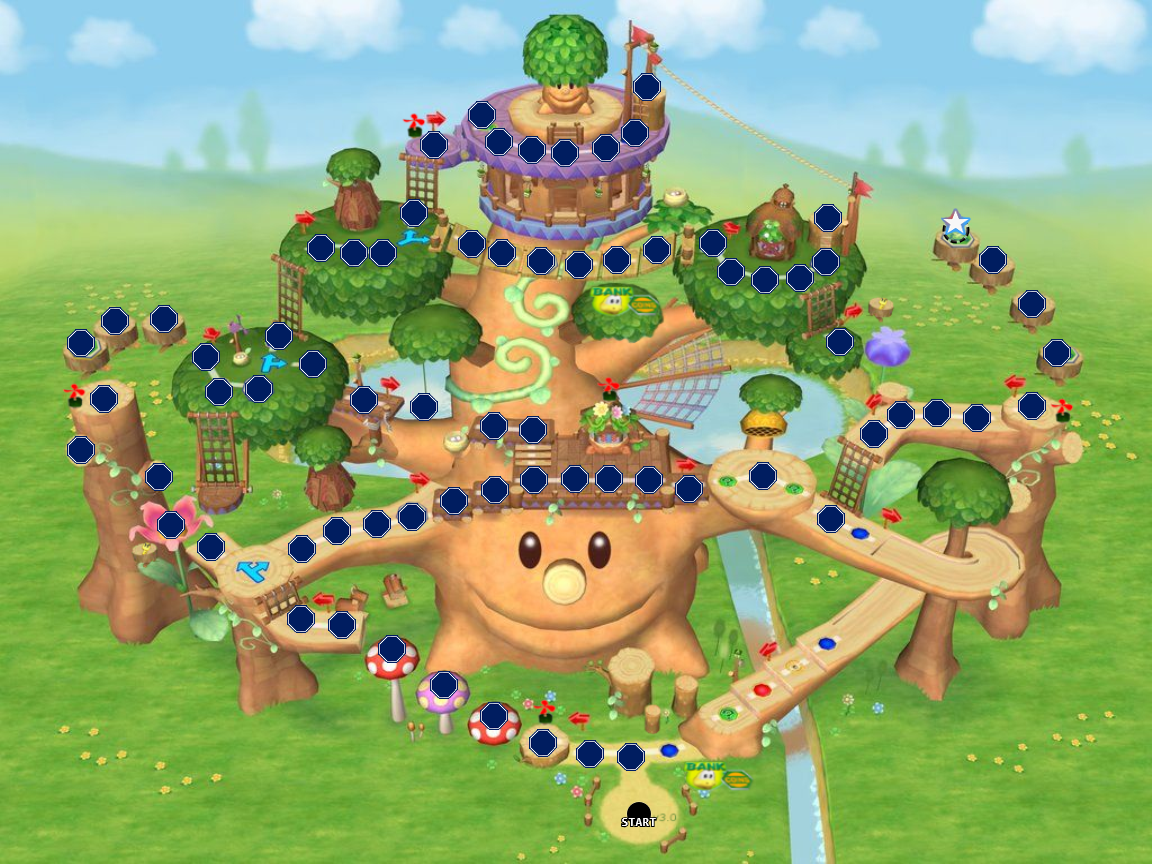
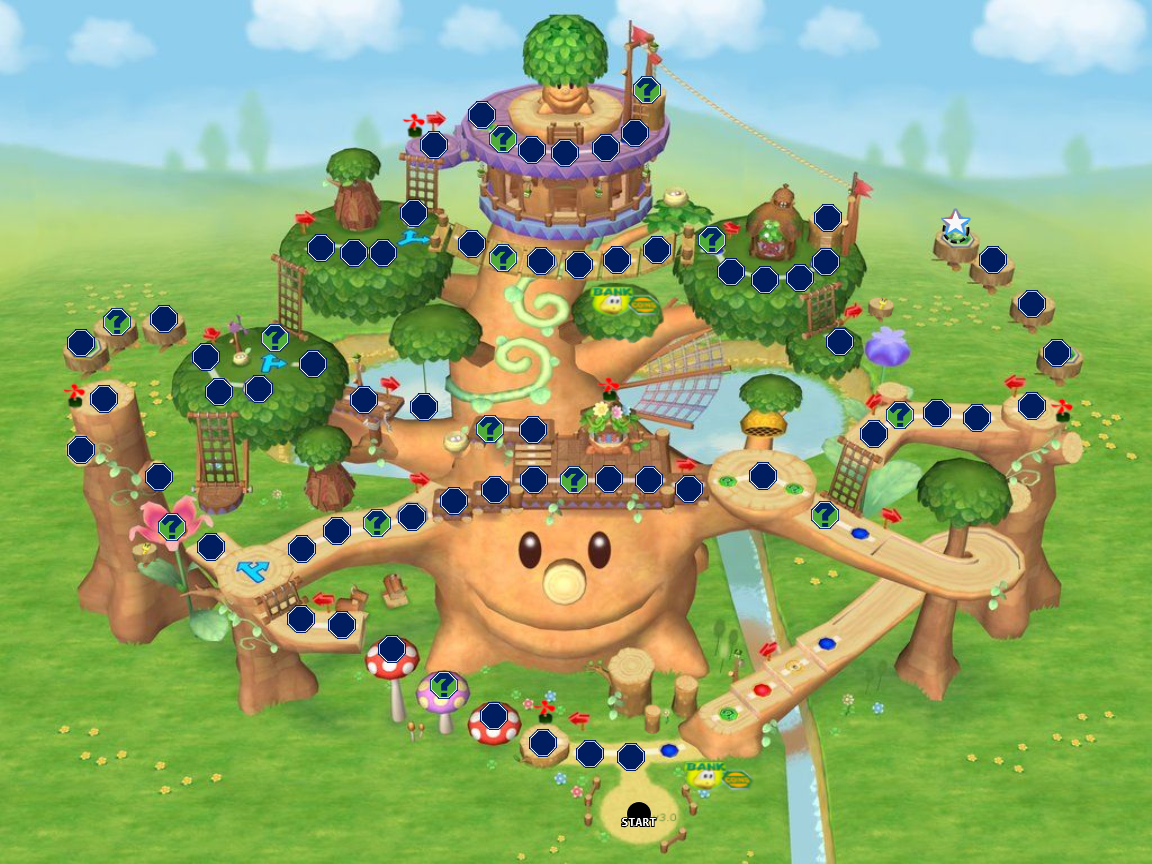
BoardGame custom (boardgame1 done w/0 sfx)

diff --git a/BoardGame2/src/BoardGame.java b/BoardGame2/src/BoardGame.java
@@ -153,19 +153,33 @@ class BoardGame {
     }
 
     private void generateRandomPoints() {
+        // Always set end node to 100 points first
         endNode.setPoints(100);
-        int numberOfPointBoxes = 10 + random.nextInt(6);
+
+        // Change these numbers to control how many point boxes appear
+        // Format: minimum + random.nextInt(range)
+        // Example: 20 + random.nextInt(11) = 20 to 30 point boxes
+        int numberOfPointBoxes = 20 + random.nextInt(11);  // 20-30 point boxes
+
         List<Integer> availableIndices = new ArrayList<>();
 
-        for (int i = 1; i < nodes.size() - 1; i++) {
-            availableIndices.add(i);
+        // Exclude the end node (node 42) from getting random points
+        for (int i = 1; i < nodes.size(); i++) {
+            if (nodes.get(i) != endNode) {  // Skip the end node
+                availableIndices.add(i);
+            }
         }
 
         for (int i = 0; i < numberOfPointBoxes && !availableIndices.isEmpty(); i++) {
             int index = random.nextInt(availableIndices.size());
             int nodeIndex = availableIndices.remove(index);
             Node node = nodes.get(nodeIndex);
-            int points = 1 + random.nextInt(10);
+
+            // Change this to control the range of points per box
+            // Format: minimum + random.nextInt(range)
+            // Example: 1 + random.nextInt(15) = 1 to 15 points per box
+            int points = 1 + random.nextInt(15);  // 1-15 points per box
+
             node.setPoints(points);
         }
     }
@@ -526,7 +540,8 @@ class BoardGame {
             System.out.println(player.getName() + " collected " + points + " points!");
         }
 
-        doubleTurn = (currentNode.getId() % 5 == 0 && currentNode.getId() > 0);
+        // Check for double turn (multiples of 5, but NOT node 40)
+        doubleTurn = (currentNode.getId() % 5 == 0 && currentNode.getId() > 0 && currentNode.getId() != 40);
 
         if (doubleTurn) {
             SwingUtilities.invokeLater(() -> {
@@ -543,6 +558,7 @@ class BoardGame {
 
         if (currentNode == endNode) {
             gameOver = true;
+            showFinalScoreboard();
         }
 
         if (!gameOver && !doubleTurn) {
@@ -572,5 +588,269 @@ class BoardGame {
             if (player.isAnimating()) return true;
         }
         return false;
+    }
+
+    private void showFinalScoreboard() {
+        SwingUtilities.invokeLater(() -> {
+            // Create custom dialog
+            JDialog scoreboard = new JDialog();
+            scoreboard.setTitle("Game Over");
+            scoreboard.setModal(true);
+            scoreboard.setSize(600, 700);
+            scoreboard.setLocationRelativeTo(null);
+            scoreboard.setDefaultCloseOperation(JDialog.DO_NOTHING_ON_CLOSE);
+
+            JPanel mainPanel = new JPanel();
+            mainPanel.setLayout(new BoxLayout(mainPanel, BoxLayout.Y_AXIS));
+            mainPanel.setBackground(new Color(20, 20, 20));
+            mainPanel.setBorder(BorderFactory.createEmptyBorder(40, 50, 40, 50));
+
+            // Sort players by score (highest first)
+            List<Player> sortedPlayers = new ArrayList<>(players);
+            sortedPlayers.sort((p1, p2) -> Integer.compare(p2.getScore(), p1.getScore()));
+
+            Player winner = sortedPlayers.get(0);
+
+            // Title - LEADERBOARD
+            JLabel titleLabel = new JLabel("LEADERBOARD");
+            titleLabel.setFont(new Font("Arial", Font.BOLD, 56));
+            titleLabel.setForeground(new Color(255, 180, 0));
+            titleLabel.setAlignmentX(Component.CENTER_ALIGNMENT);
+            titleLabel.setHorizontalAlignment(SwingConstants.CENTER);
+
+            // Winner announcement
+            JLabel winnerLabel = new JLabel("🏆 WINNER 🏆");
+            winnerLabel.setFont(new Font("Arial", Font.BOLD, 32));
+            winnerLabel.setForeground(new Color(255, 215, 0));
+            winnerLabel.setAlignmentX(Component.CENTER_ALIGNMENT);
+            winnerLabel.setHorizontalAlignment(SwingConstants.CENTER);
+
+            // Winner name with color
+            String winnerColorHex = String.format("#%02x%02x%02x",
+                    winner.getColor().getRed(),
+                    winner.getColor().getGreen(),
+                    winner.getColor().getBlue());
+            JLabel winnerNameLabel = new JLabel(
+                    "<html><center><b style='font-size: 26px; color: " + winnerColorHex + ";'>" +
+                            winner.getName() + "</b><br>" +
+                            "<span style='font-size: 18px; color: rgb(200, 200, 200);'>Final Score: " +
+                            winner.getScore() + " points</span></center></html>");
+            winnerNameLabel.setAlignmentX(Component.CENTER_ALIGNMENT);
+            winnerNameLabel.setHorizontalAlignment(SwingConstants.CENTER);
+
+            // Rankings panel with clean design
+            JPanel rankingsPanel = new JPanel();
+            rankingsPanel.setLayout(new BoxLayout(rankingsPanel, BoxLayout.Y_AXIS));
+            rankingsPanel.setBackground(new Color(20, 20, 20));
+            rankingsPanel.setMaximumSize(new Dimension(500, 300));
+            rankingsPanel.setBorder(BorderFactory.createEmptyBorder(20, 0, 20, 0));
+
+            // Header row
+            JPanel headerPanel = new JPanel(new BorderLayout());
+            headerPanel.setBackground(new Color(20, 20, 20));
+            headerPanel.setMaximumSize(new Dimension(500, 40));
+
+            JLabel playerHeader = new JLabel("PLAYER");
+            playerHeader.setFont(new Font("Arial", Font.BOLD, 18));
+            playerHeader.setForeground(new Color(255, 180, 0));
+            playerHeader.setBorder(BorderFactory.createEmptyBorder(0, 20, 10, 0));
+
+            JLabel scoreHeader = new JLabel("SCORE");
+            scoreHeader.setFont(new Font("Arial", Font.BOLD, 18));
+            scoreHeader.setForeground(new Color(255, 180, 0));
+            scoreHeader.setHorizontalAlignment(SwingConstants.RIGHT);
+            scoreHeader.setBorder(BorderFactory.createEmptyBorder(0, 0, 10, 20));
+
+            headerPanel.add(playerHeader, BorderLayout.WEST);
+            headerPanel.add(scoreHeader, BorderLayout.EAST);
+
+            rankingsPanel.add(headerPanel);
+
+            // Add each player's ranking
+            for (int i = 0; i < sortedPlayers.size(); i++) {
+                Player p = sortedPlayers.get(i);
+
+                JPanel playerPanel = new JPanel(new BorderLayout());
+                playerPanel.setBackground(new Color(255, 165, 0));
+                playerPanel.setMaximumSize(new Dimension(500, 60));
+                playerPanel.setBorder(BorderFactory.createEmptyBorder(8, 15, 8, 15));
+
+                // Left side - Player icon and name
+                JPanel leftPanel = new JPanel(new FlowLayout(FlowLayout.LEFT, 10, 0));
+                leftPanel.setBackground(new Color(255, 165, 0));
+
+                // Player icon
+                JPanel iconPanel = new JPanel() {
+                    @Override
+                    protected void paintComponent(Graphics g) {
+                        super.paintComponent(g);
+                        Graphics2D g2d = (Graphics2D) g;
+                        g2d.setRenderingHint(RenderingHints.KEY_ANTIALIASING, RenderingHints.VALUE_ANTIALIAS_ON);
+                        g2d.setColor(Color.WHITE);
+                        g2d.fillOval(0, 0, 40, 40);
+                        g2d.setColor(p.getColor());
+                        g2d.fillOval(12, 8, 16, 16);
+                        g2d.fillOval(8, 20, 24, 20);
+                    }
+                };
+                iconPanel.setPreferredSize(new Dimension(40, 40));
+                iconPanel.setBackground(new Color(255, 165, 0));
+
+                JLabel nameLabel = new JLabel(p.getName());
+                nameLabel.setFont(new Font("Arial", Font.BOLD, 20));
+                nameLabel.setForeground(Color.BLACK);
+
+                leftPanel.add(iconPanel);
+                leftPanel.add(nameLabel);
+
+                // Right side - Score
+                JPanel rightPanel = new JPanel(new FlowLayout(FlowLayout.RIGHT, 0, 0));
+                rightPanel.setBackground(new Color(255, 140, 0));
+                rightPanel.setPreferredSize(new Dimension(120, 44));
+
+                JLabel scoreLabel = new JLabel(p.getScore() + " pts");
+                scoreLabel.setFont(new Font("Arial", Font.BOLD, 20));
+                scoreLabel.setForeground(Color.BLACK);
+                scoreLabel.setBorder(BorderFactory.createEmptyBorder(0, 15, 0, 15));
+
+                rightPanel.add(scoreLabel);
+
+                playerPanel.add(leftPanel, BorderLayout.CENTER);
+                playerPanel.add(rightPanel, BorderLayout.EAST);
+
+                rankingsPanel.add(playerPanel);
+
+                if (i < sortedPlayers.size() - 1) {
+                    rankingsPanel.add(Box.createRigidArea(new Dimension(0, 8)));
+                }
+            }
+
+            // Buttons panel
+            JPanel buttonsPanel = new JPanel(new FlowLayout(FlowLayout.CENTER, 20, 0));
+            buttonsPanel.setBackground(new Color(20, 20, 20));
+            buttonsPanel.setMaximumSize(new Dimension(550, 70));
+
+            JButton playAgainButton = new JButton("PLAY AGAIN");
+            playAgainButton.setFont(new Font("Arial", Font.BOLD, 16));
+            playAgainButton.setPreferredSize(new Dimension(200, 50));
+            playAgainButton.setBackground(new Color(0, 180, 0));
+            playAgainButton.setForeground(Color.WHITE);
+            playAgainButton.setFocusPainted(false);
+            playAgainButton.setBorderPainted(false);
+
+            JButton restartButton = new JButton("RESTART");
+            restartButton.setFont(new Font("Arial", Font.BOLD, 16));
+            restartButton.setPreferredSize(new Dimension(200, 50));
+            restartButton.setBackground(new Color(255, 165, 0));
+            restartButton.setForeground(Color.WHITE);
+            restartButton.setFocusPainted(false);
+            restartButton.setBorderPainted(false);
+
+            JButton mainMenuButton = new JButton("EXIT");
+            mainMenuButton.setFont(new Font("Arial", Font.BOLD, 16));
+            mainMenuButton.setPreferredSize(new Dimension(200, 50));
+            mainMenuButton.setBackground(new Color(200, 0, 0));
+            mainMenuButton.setForeground(Color.WHITE);
+            mainMenuButton.setFocusPainted(false);
+            mainMenuButton.setBorderPainted(false);
+
+            // Button actions
+            playAgainButton.addActionListener(e -> {
+                scoreboard.dispose();
+                continueGame();
+            });
+
+            restartButton.addActionListener(e -> {
+                scoreboard.dispose();
+                resetGame();
+            });
+
+            mainMenuButton.addActionListener(e -> {
+                scoreboard.dispose();
+                returnToMainMenu();
+            });
+
+            buttonsPanel.add(playAgainButton);
+            buttonsPanel.add(restartButton);
+
+            JPanel exitPanel = new JPanel(new FlowLayout(FlowLayout.CENTER));
+            exitPanel.setBackground(new Color(20, 20, 20));
+            exitPanel.add(mainMenuButton);
+
+            // Add all components to main panel
+            mainPanel.add(titleLabel);
+            mainPanel.add(Box.createRigidArea(new Dimension(0, 30)));
+            mainPanel.add(winnerLabel);
+            mainPanel.add(Box.createRigidArea(new Dimension(0, 10)));
+            mainPanel.add(winnerNameLabel);
+            mainPanel.add(Box.createRigidArea(new Dimension(0, 30)));
+            mainPanel.add(rankingsPanel);
+            mainPanel.add(Box.createRigidArea(new Dimension(0, 20)));
+            mainPanel.add(buttonsPanel);
+            mainPanel.add(Box.createRigidArea(new Dimension(0, 10)));
+            mainPanel.add(exitPanel);
+
+            scoreboard.add(mainPanel);
+            scoreboard.setVisible(true);
+        });
+    }
+
+    public void continueGame() {
+        // Continue with current scores - just reset positions
+        gameOver = false;
+        doubleTurn = false;
+        currentPlayerIndex = 0;
+
+        // Reset player positions only (keep scores)
+        for (Player player : players) {
+            player.setCurrentNode(startNode);
+            player.setDisplayNode(startNode);  // Also reset display node
+        }
+
+        // Regenerate random points
+        for (Node node : nodes) {
+            node.setPoints(0);
+        }
+        generateRandomPoints();
+
+        System.out.println("Continuing game with current scores!");
+    }
+
+    public void resetGame() {
+        // Reset all game state INCLUDING scores
+        gameOver = false;
+        doubleTurn = false;
+        currentPlayerIndex = 0;
+
+        // Reset all players (positions AND scores)
+        for (Player player : players) {
+            player.setCurrentNode(startNode);
+            player.setDisplayNode(startNode);  // Also reset display node
+            player.setScore(0);
+        }
+
+        // Regenerate random points
+        for (Node node : nodes) {
+            node.setPoints(0);
+        }
+        generateRandomPoints();
+
+        System.out.println("Game restarted! All scores reset to 0.");
+    }
+
+    public void returnToMainMenu() {
+        // This will be connected to your game launcher later
+        System.out.println("Returning to main menu...");
+        System.out.println("(Game launcher integration will be added later)");
+
+        // For now, just close the game window
+        SwingUtilities.invokeLater(() -> {
+            Window[] windows = Window.getWindows();
+            for (Window window : windows) {
+                if (window instanceof JFrame) {
+                    window.dispose();
+                }
+            }
+        });
     }
 }

diff --git a/BoardGame2/src/GamePanel.java b/BoardGame2/src/GamePanel.java
@@ -86,29 +86,29 @@ class GamePanel extends JPanel {
 
             int scaledNodeSize = (int) (NODE_SIZE * scale);
 
-            // Draw node based on type
-            if (node.getType() == Node.NodeType.START) {
-                g2d.setColor(new Color(0, 255, 0, 150));
-            } else if (node.getType() == Node.NodeType.END) {
-                g2d.setColor(new Color(255, 0, 0, 150));
-            } else if (node.getType() == Node.NodeType.PRIME) {
-                g2d.setColor(new Color(173, 216, 230, 150));
-            } else {
-                g2d.setColor(new Color(100, 100, 100, 80));
+            // Check if this is a multiple of 5 node (skip drawing circle and ID, but keep points)
+            boolean isMultipleOf5 = (node.getId() % 5 == 0 && node.getId() > 0 && node.getType() != Node.NodeType.END && node.getId() != 40);
+
+            if (!isMultipleOf5) {
+                // Draw node circle based on type
+
+                 if (node.getType() == Node.NodeType.PRIME) {
+                    g2d.setColor(new Color(173, 216, 230, 150));
+                    g2d.fillOval(pos.x - scaledNodeSize/2, pos.y - scaledNodeSize/2, scaledNodeSize, scaledNodeSize);
+                }
+                // Normal nodes: no circle drawn, only ID below
+
+                // Draw node ID
+                g2d.setColor(Color.WHITE);
+                int fontSize = Math.max(8, (int) (12 * scale));
+                g2d.setFont(new Font("Arial", Font.BOLD, fontSize));
+                String id = String.valueOf(node.getId());
+                FontMetrics fm = g2d.getFontMetrics();
+                int textWidth = fm.stringWidth(id);
+                g2d.drawString(id, pos.x - textWidth/2, pos.y + fontSize/3);
             }
 
-            g2d.fillOval(pos.x - scaledNodeSize/2, pos.y - scaledNodeSize/2, scaledNodeSize, scaledNodeSize);
-
-            // Draw node ID
-            g2d.setColor(Color.BLACK);
-            int fontSize = Math.max(8, (int) (12 * scale));
-            g2d.setFont(new Font("Arial", Font.BOLD, fontSize));
-            String id = String.valueOf(node.getId());
-            FontMetrics fm = g2d.getFontMetrics();
-            int textWidth = fm.stringWidth(id);
-            g2d.drawString(id, pos.x - textWidth/2, pos.y + fontSize/3);
-
-            // Draw points if any
+            // ALWAYS draw points if any (even for multiples of 5)
             if (node.getPoints() > 0) {
                 g2d.setColor(new Color(255, 140, 0));
                 g2d.setFont(new Font("Arial", Font.BOLD, (int)(10 * scale)));

diff --git a/BoardGame2/src/Main.java b/BoardGame2/src/Main.java
@@ -162,7 +162,15 @@ public class Main {
                     dicePanel.animateDiceRoll(dice.getLastRoll(), dice.getColor());
                 }
             });
-
+// Add a timer to continuously check if game was restarted
+            Timer gameStateChecker = new Timer(500, e -> {
+                if (!game.isGameOver() && !rollButton.isEnabled() && !game.isAnyPlayerAnimating()) {
+                    rollButton.setEnabled(true);
+                    updateStatusLabel.run();
+                    updateScoreboard.run();
+                }
+            });
+            gameStateChecker.start();
             // Add components to right panel
             rightPanel.add(titleLabel);
             rightPanel.add(Box.createRigidArea(new Dimension(0, 10)));

diff --git a/BoardGame2/src/Player.java b/BoardGame2/src/Player.java
@@ -49,4 +49,5 @@ class Player {
     public void useExtraTurn() { this.hasExtraTurn = false; }
     public int getScore() { return score; }
     public void addScore(int points) { this.score += points; }
+    public void setScore(int score) { this.score = score; }  // <-- ADD THIS LINE
 }
